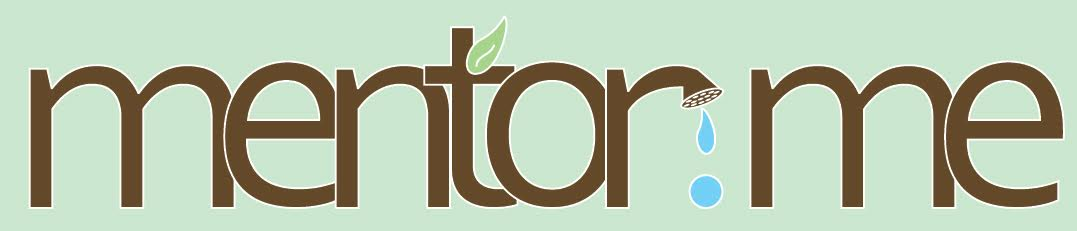
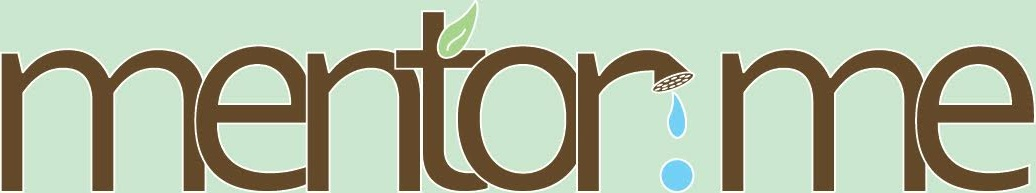
styling

diff --git a/components/headerImage.js b/components/headerImage.js
@@ -1,21 +1,31 @@
-import React, {Component} from 'react'
-import {Image, StyleSheet} from 'react-native'
+import React, { Component } from 'react'
+import { View, Image, StyleSheet } from 'react-native'
 
 export default class HeaderImage extends Component {
 
+    render() {
+        return (
+            <View style={styles.container}>
+                <Image style={styles.image} source={require('../images/mentorme.jpeg')} />
+            </View>
+        );
+    }
 
-
-
-render(){
-    return(
-        <Image style={styles.Image} source={require('../images/mentorme.jpeg')}/>
-    )
 }
-}
+
 const styles = StyleSheet.create({
-    Image:{
-        height: 45,
-        width: 250,
+
+    container: {
+        paddingTop: 10,
+        paddingBottom: 10,
+        flex: 1,
+        alignItems: 'center',
+        justifyContent: 'center'
+    },
+
+    image: {
+        flex: 1,
+        resizeMode: 'contain'
     }
 
 });

diff --git a/screens/tabScreen.js b/screens/tabScreen.js
@@ -10,7 +10,6 @@ import SearchScreen from './searchScreen';
 import HeaderImage from '../components/headerImage'
 
 import { getMe } from '../services/user';
-import { DEFAULT_NAVIGATION_NO_ARROW } from '../services/navigation';
 
 const MentorTabNavigation = TabNavigator({
     Profile: { screen: ProfileScreen },
@@ -37,8 +36,8 @@ export default class TabScreen extends Component {
     }
 
     static navigationOptions = {
-        headerTitle:(
-            <HeaderImage/>
+        headerTitle: (
+            <HeaderImage />
         ),
         headerLeft: null,
         headerStyle: {

diff --git a/screens/profileScreen.js b/screens/profileScreen.js
@@ -64,8 +64,8 @@ const styles = StyleSheet.create({
         backgroundColor: 'rgba(135,204,236,0.5)',
         flex: 1,
         flexDirection: 'column',
-        borderColor: 'rgba(135,204,236,0.5)',
-        borderWidth: 3,
+        borderColor: 'rgb(95,72,47)',
+        borderWidth: 2,
         borderRadius: 100
     }
 

diff --git a/components/profileLogout.js b/components/profileLogout.js
@@ -27,12 +27,10 @@ const styles = StyleSheet.create({
 
     logout: {
         flex: 0,
-        borderColor: 'black',
-        borderWidth: 2
     },
 
     button: {
-        backgroundColor: 'rgb(135,204,236)',
+        backgroundColor: 'rgb(95,72,47)',
     }
 
 });

diff --git a/components/profileBio.js b/components/profileBio.js
@@ -18,8 +18,6 @@ export default class ProfileBio extends Component {
 const styles = StyleSheet.create({
 
     bio: {
-        borderColor: 'black',
-        borderWidth: 2,
         flex: 0,
         paddingLeft: 20,
         paddingRight: 20,

diff --git a/components/profileContact.js b/components/profileContact.js
@@ -24,8 +24,6 @@ export default class ProfileContact extends Component {
 const styles = StyleSheet.create({
 
     contactContainer: {
-        borderColor: 'black',
-        borderWidth: 2,
         flex: 0,
     },
 

diff --git a/components/profileName.js b/components/profileName.js
@@ -18,8 +18,6 @@ export default class ProfileName extends Component {
 const styles = StyleSheet.create({
 
     nameContainer: {
-        borderColor: 'black',
-        borderWidth: 2,
         flex: 0,
     },
 

diff --git a/components/profileWage.js b/components/profileWage.js
@@ -18,8 +18,6 @@ export default class ProfileWage extends Component {
 const styles = StyleSheet.create({
 
     wageContainer: {
-        borderColor: 'black',
-        borderWidth: 2,
         flex: 0,
     },
 

diff --git a/components/profilePhoto.js b/components/profilePhoto.js
@@ -28,8 +28,6 @@ const styles = StyleSheet.create({
     Container: {
         flex: 0,
         alignItems: 'center',
-        borderColor: 'black',
-        borderWidth: 2,
     },
 
     image: {
